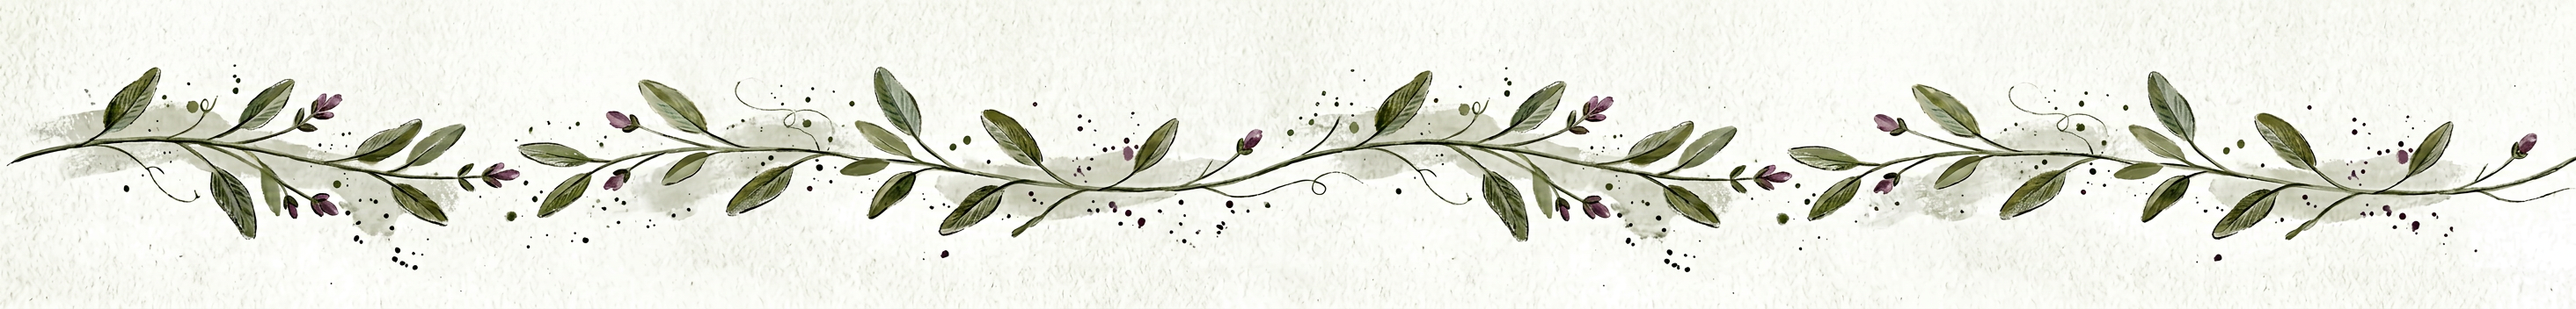
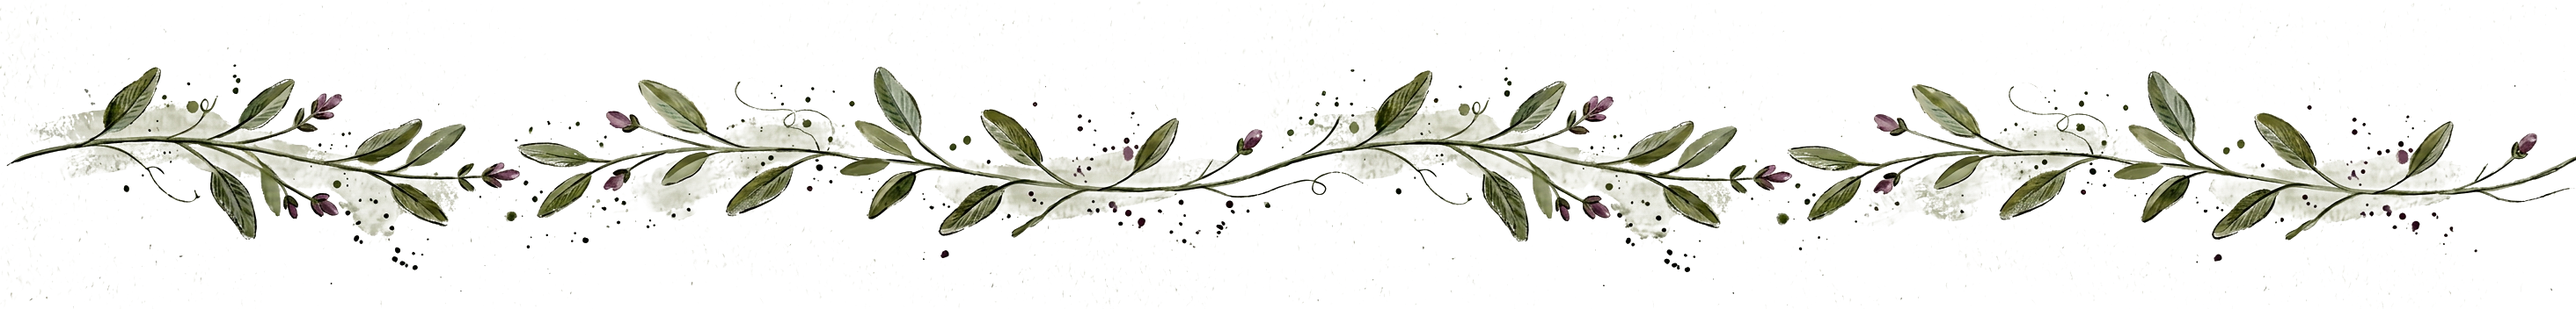
Changes

diff --git a/src/components/auth/AuthIllustrationPanel.tsx b/src/components/auth/AuthIllustrationPanel.tsx
@@ -47,13 +47,13 @@ export const AuthIllustrationPanel = ({ title, tagline, description, footerSlot 
         aria-hidden="true"
         loading="lazy"
         width={1536}
-        height={384}
+        height={192}
         className="hidden lg:block pointer-events-none absolute right-0 max-w-none h-auto z-20 select-none"
         style={{
-          top: "-2.5rem",
+          top: "-1.25rem",
           width: "150%",
           opacity: 0.85,
-          transform: "translateX(85%) scaleY(0.38)",
+          transform: "translateX(85%)",
           transformOrigin: "left top",
         }}
       />
